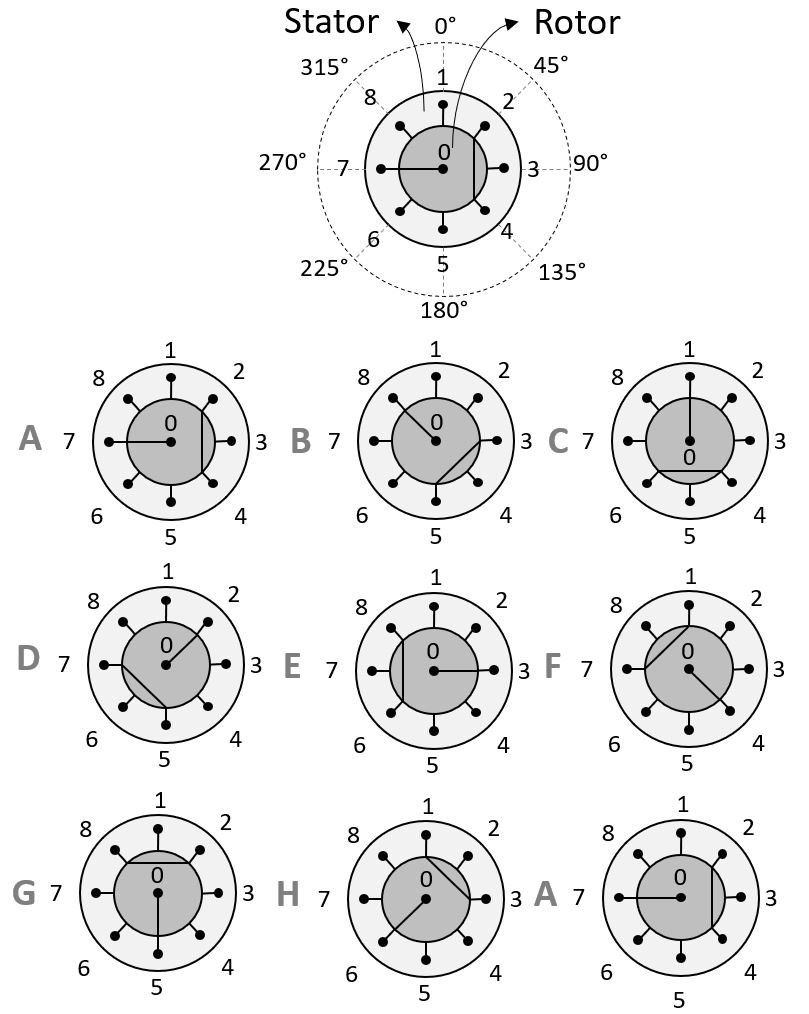
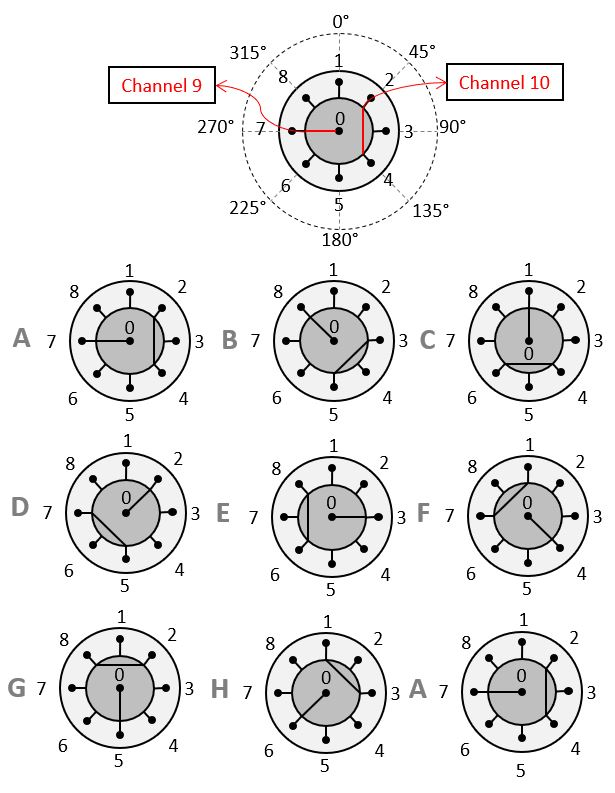
Update of the logic valve figure to better clarify the difference btw channels and ports!

Changed region(s): [[0.0, 0.0, 0.9886, 0.9987], [0.3398, 0.8474, 0.3707, 0.9079], [0.587, 0.0303, 0.6179, 0.0605]]

diff --git a/docs/development/foundations/valve_logic.md b/docs/development/foundations/valve_logic.md
@@ -7,11 +7,13 @@ same kind.
 The valve logic, or better specifically, the rotary valve logic, is based on the device's movement and degree of 
 freedom. The figure above illustrates an example of a valve. The rotary valve has 2 parts. 
 The first part, called stator, is fixed and contains the ports, where the tubes are connected. The second part, 
-called the rotor, is mobile. The rotor can rotate to a specific angle to eastablish a specific connection. 
+called the rotor, is mobile. The rotor can rotate to a specific angle to establish a specific connection through 
+the channels. 
 
 In the figure, the systematic numbering of the nine ports, from 0 to 8, ensures a clear understanding of their relation to 
 the central port. The first port, number 1, is always the highest, and the subsequent ports are numbered in a clockwise
-direction.
+direction. The rotor have two channels, called 9 and 10. The numbers used to represent the channels is always above 
+the number of ports in order to avoid misunderstand.
 
 ![](valve_logic.JPG)
 
